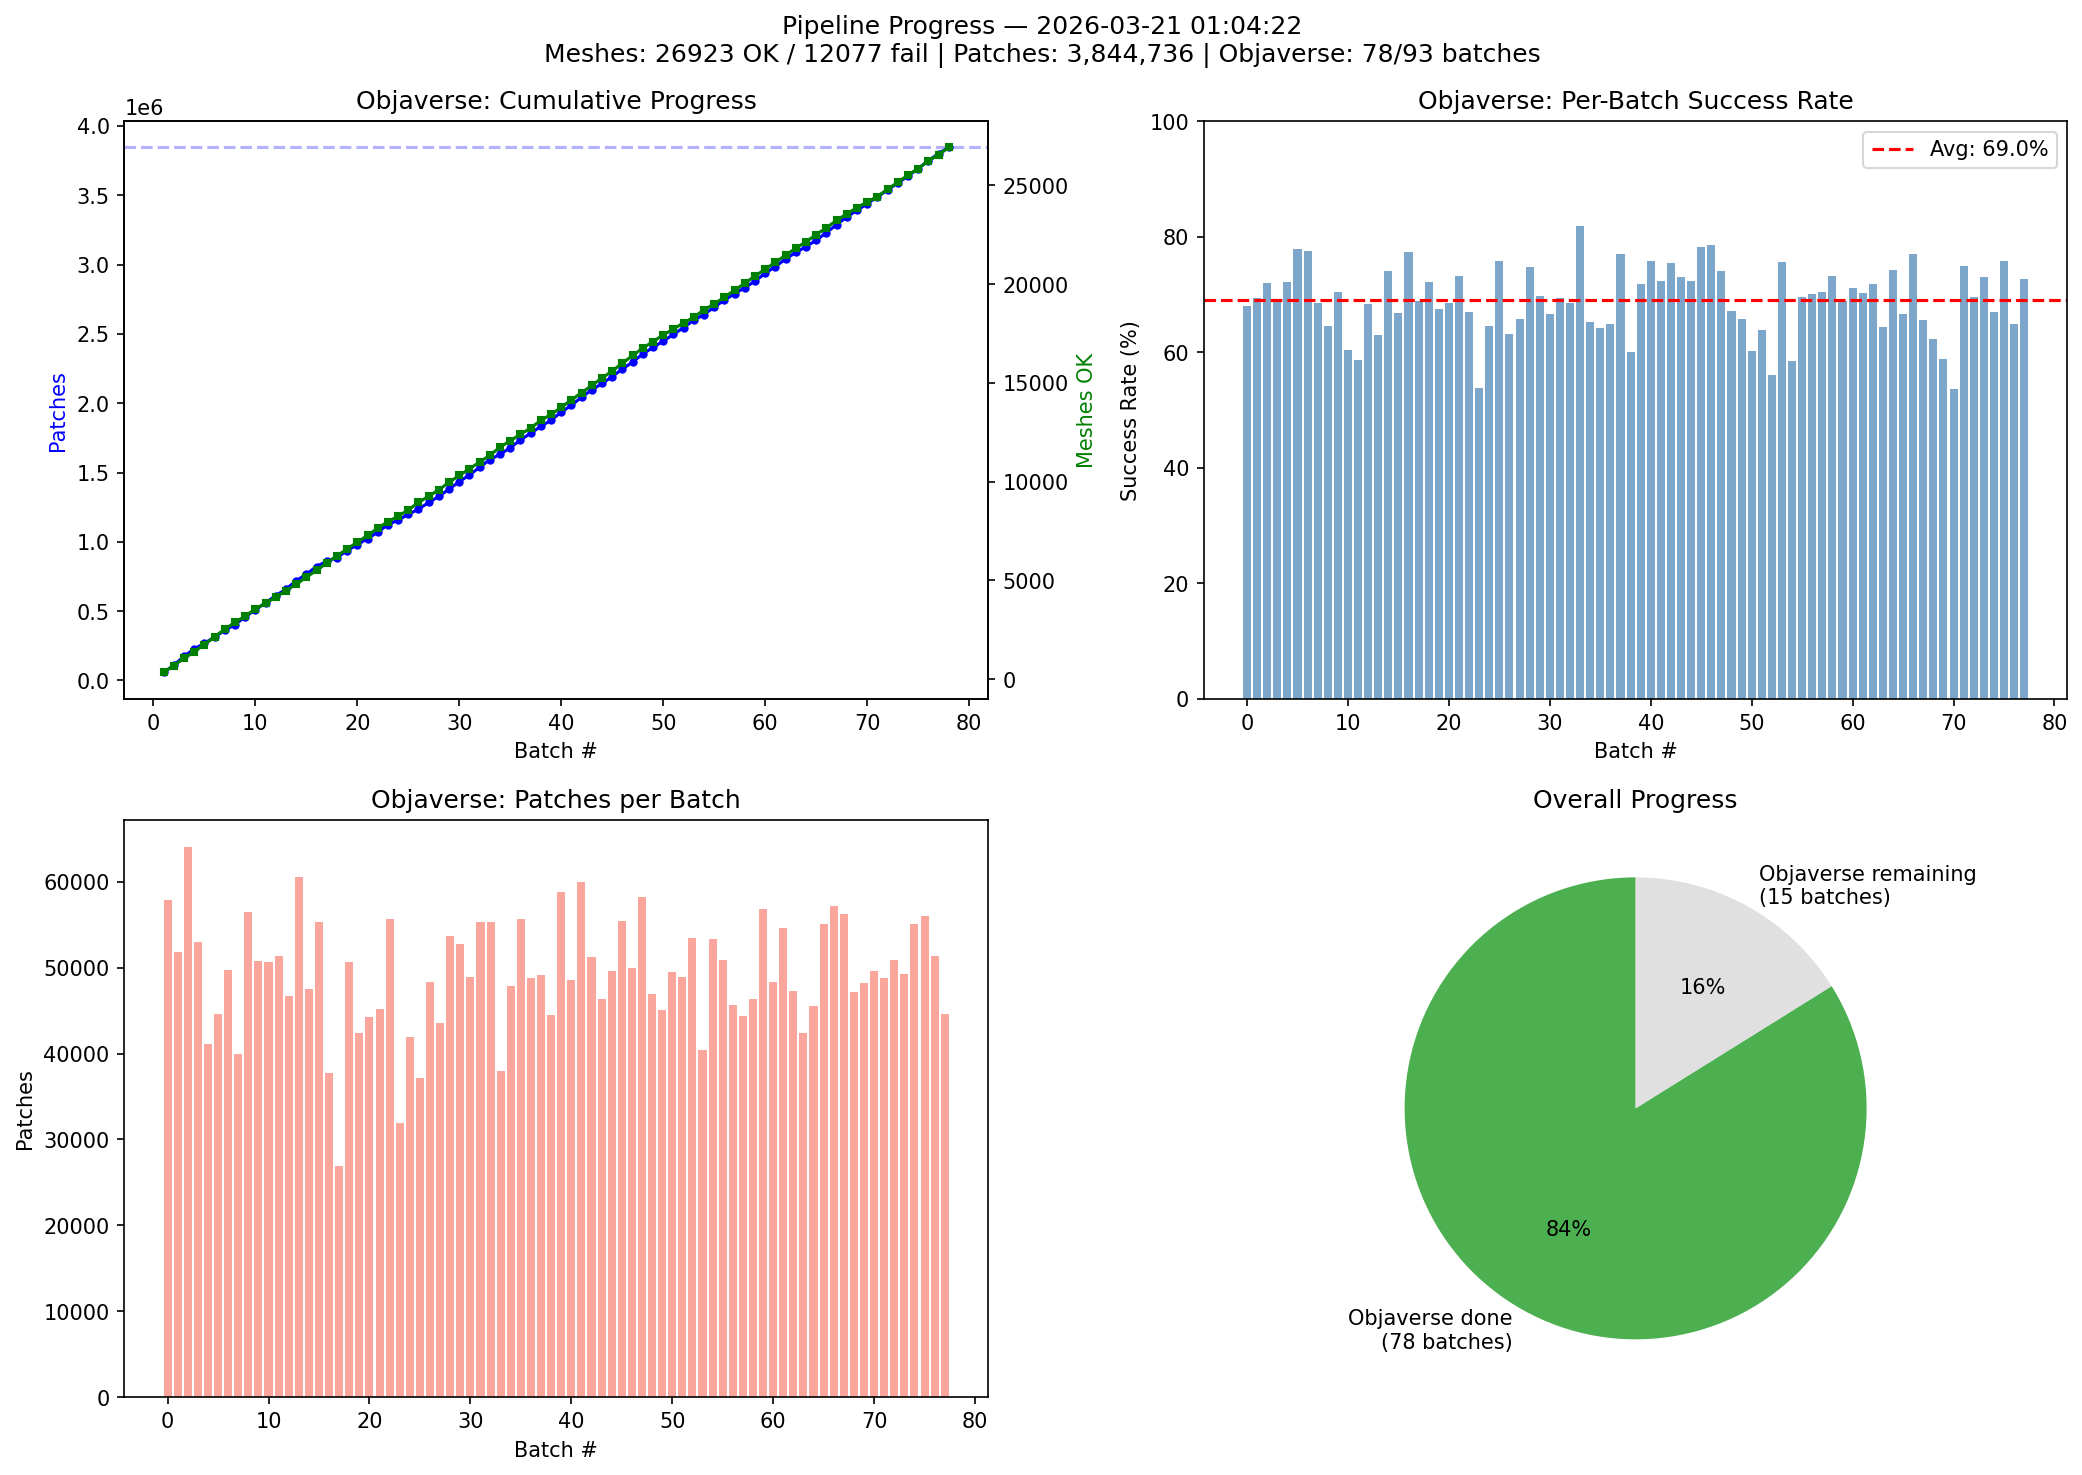
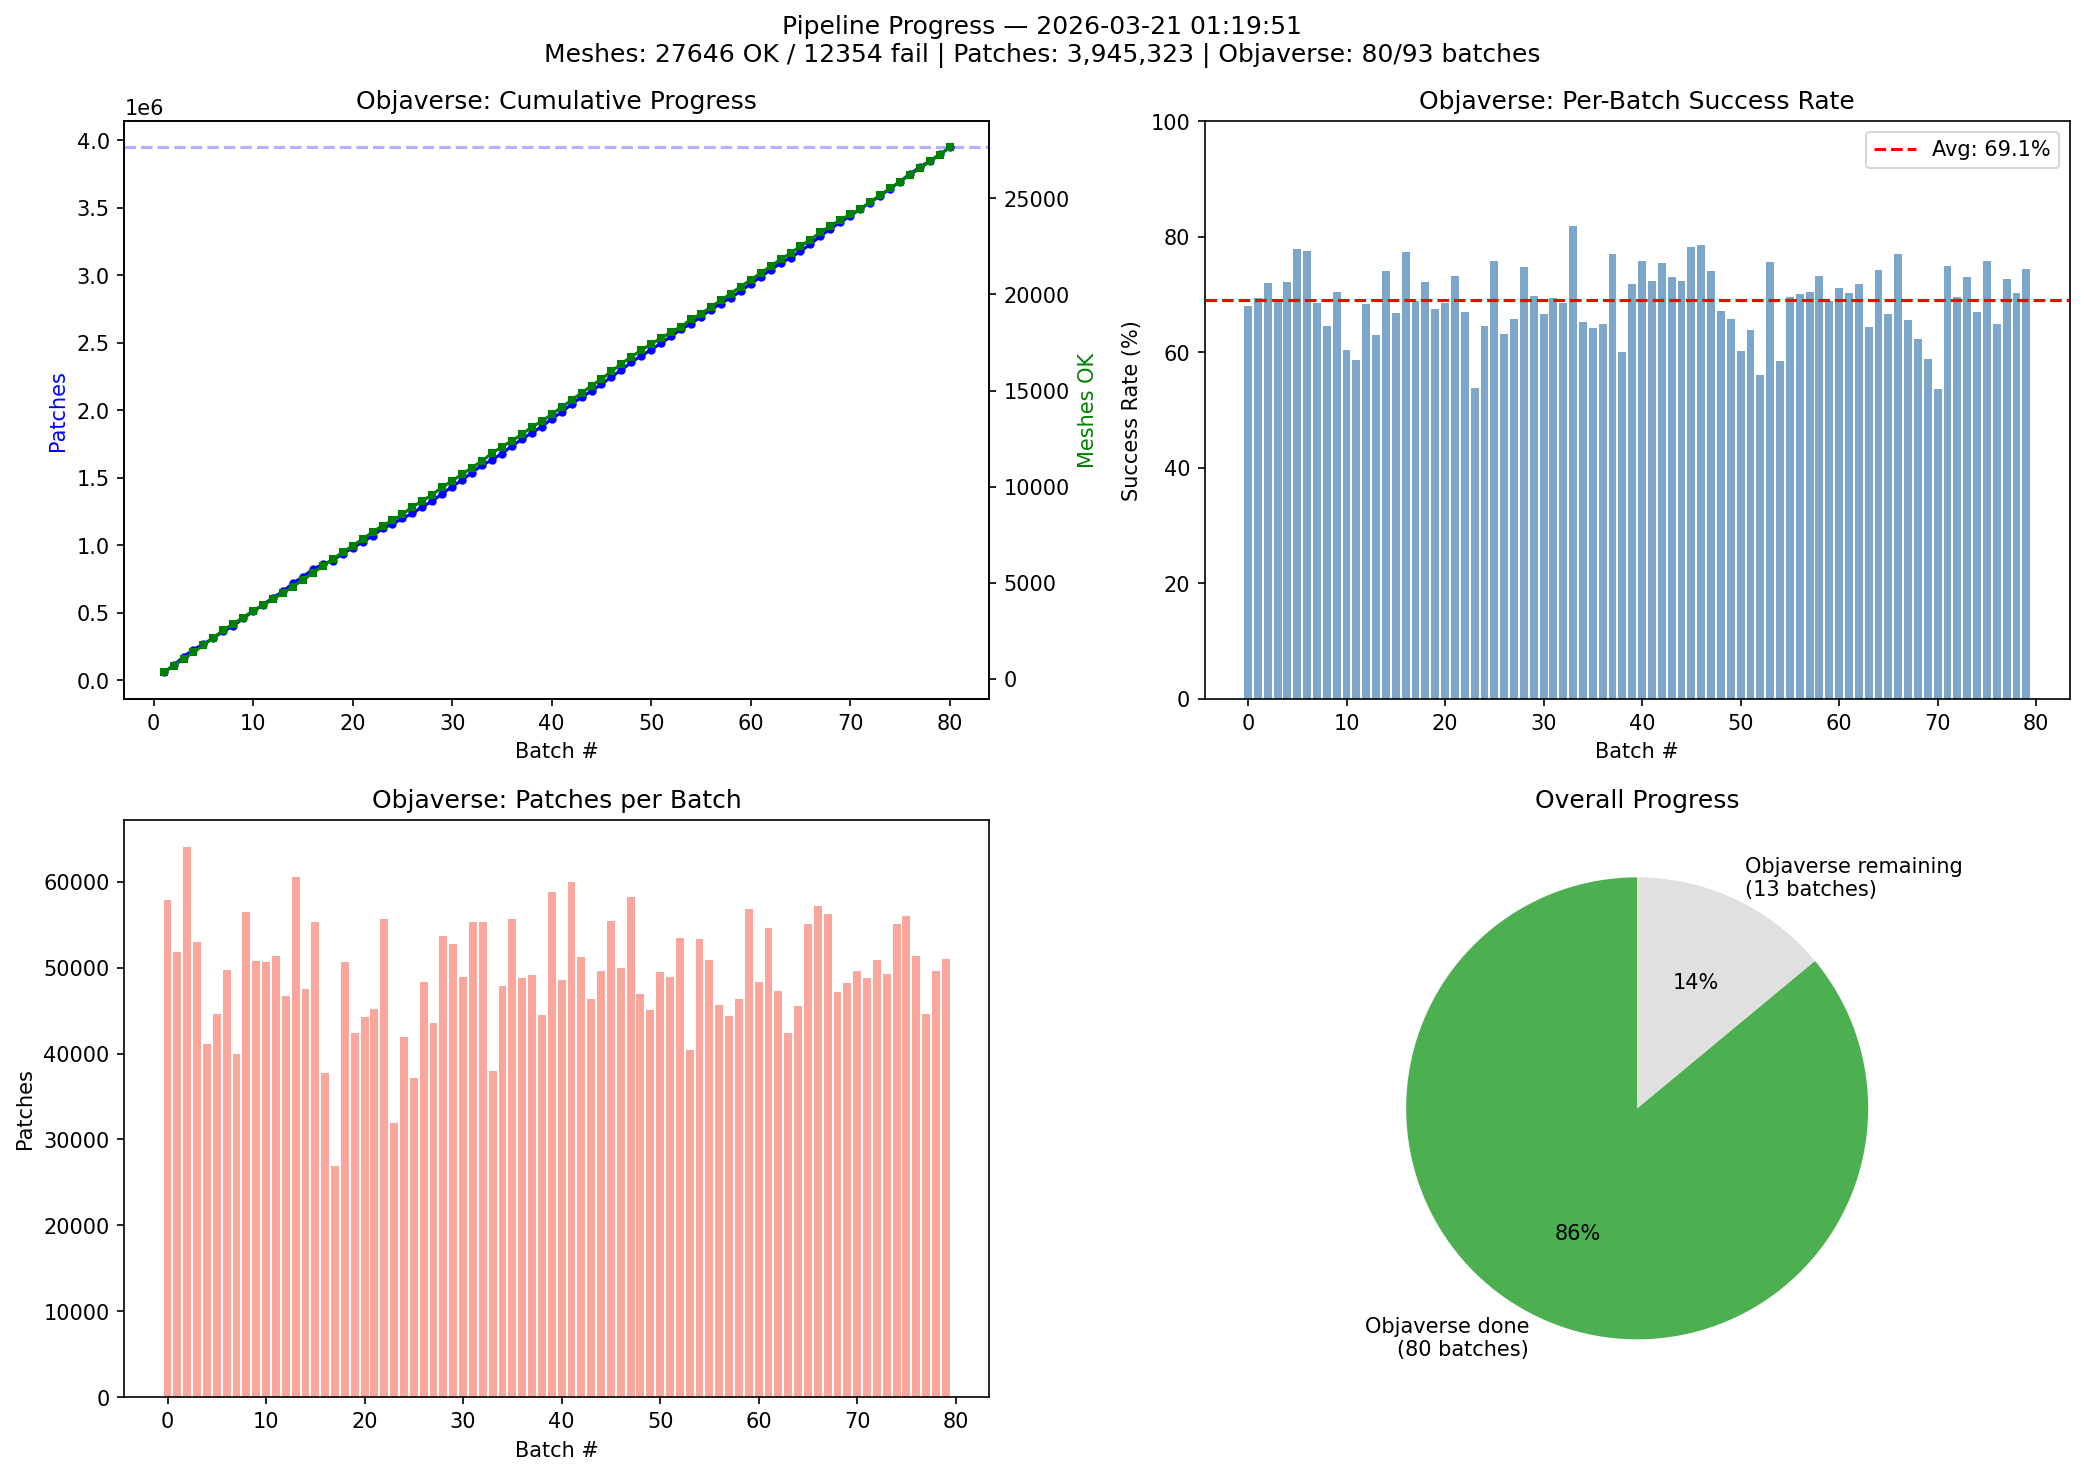
chore: update pipeline monitoring (batch_080 completed)
- Objaverse: 80/93 batches, 27646 OK / 12354 fail
- Patches: 3,945,323

diff --git a/results/dataset-pipeline/REPORT.md b/results/dataset-pipeline/REPORT.md
@@ -1,17 +1,17 @@
 # Dataset Pipeline Progress Report
 
-**Generated:** 2026-03-21 01:04:22
+**Generated:** 2026-03-21 01:19:51
 
 ## Overall
-- Total meshes processed: 26923 OK / 12077 fail
-- Total patches: 3,844,736
+- Total meshes processed: 27646 OK / 12354 fail
+- Total patches: 3,945,323
 
 ## Objaverse-LVIS (Phase 1)
-- Batches: 78 / 93 completed
-- Meshes: 26923 OK / 12077 fail
-- Success rate: 69.0%
-- Patches: 3,844,736
-- Avg patches/mesh: 142.8
+- Batches: 80 / 93 completed
+- Meshes: 27646 OK / 12354 fail
+- Success rate: 69.1%
+- Patches: 3,945,323
+- Avg patches/mesh: 142.7
 
 ## ShapeNet (Phase 2)
 - Batches: 0 completed
